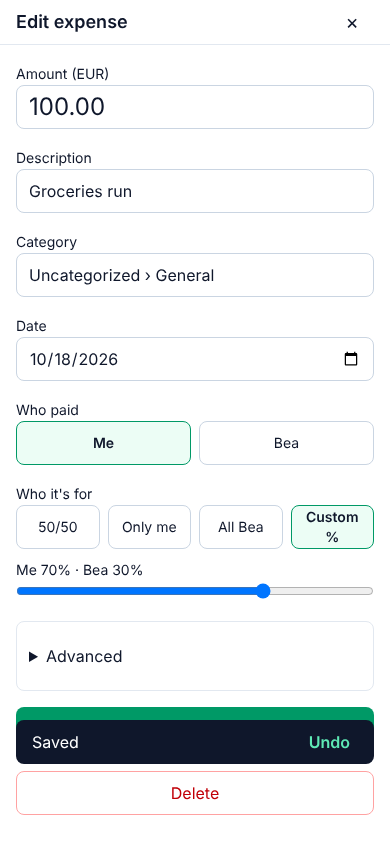
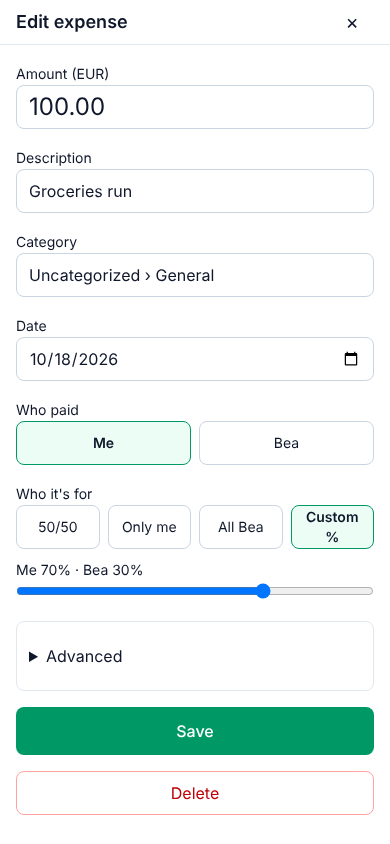
012: custom-split amount change, 3-member defaults, toast hidden when a sheet opens

Changed region(s): [[0.0308, 0.8318, 0.9846, 0.9242]]

diff --git a/frontend/src/expenses.test.tsx b/frontend/src/expenses.test.tsx
@@ -81,14 +81,14 @@ function baseRoutes(rows: ExpenseRow[] = [], extra: Parameters<typeof mockApi>[0
   };
 }
 
-function renderPage(page: "expenses" | "settings" = "expenses") {
+function renderPage(page: "expenses" | "settings" = "expenses", g: GroupDetail = group) {
   document.cookie = "csrftoken=tok";
   const client = new QueryClient({ defaultOptions: { queries: { retry: false } } });
   return render(
     <QueryClientProvider client={client}>
       <MemoryRouter initialEntries={["/g/1/" + page]}>
         <Routes>
-          <Route path="/g/1" element={<Outlet context={group} />}>
+          <Route path="/g/1" element={<Outlet context={g} />}>
             <Route path="expenses" element={<Expenses />} />
             <Route path="settings" element={<Settings />} />
           </Route>
@@ -306,4 +306,77 @@ test("test_same_currency_row_has_no_original_amount_text_but_foreign_row_has", a
   const abroad = screen.getByText("Abroad").closest("li")!;
   expect(local).not.toHaveTextContent("EUR");
   expect(abroad).toHaveTextContent("100.00 USD");
+});
+
+const threeMembers = {
+  ...group,
+  members: [...group.members, { id: 3, display_name: "Cy", profile_id: 3, is_guest: false }],
+} as unknown as GroupDetail;
+
+test("test_custom_split_row_amount_change_keeps_save_disabled_until_advanced_sums", async () => {
+  const custom = row({ splits: [{ member: 1, owed_cents: 2000 }, { member: 2, owed_cents: 2210 }] });
+  const calls = mockApi(baseRoutes([custom], { "PATCH /groups/1/expenses/5/": () => ({ json: custom }) }));
+  renderPage();
+  fireEvent.click(await screen.findByText("Rent"));
+  const dialog = within(await screen.findByRole("dialog", { name: "Edit expense" }));
+  expect(dialog.getByText("Custom split — edit in Advanced")).toBeInTheDocument();
+  fireEvent.change(dialog.getByLabelText(/Amount/), { target: { value: "40" } });
+  expect(dialog.getByRole("button", { name: "Save" })).toBeDisabled();
+  fireEvent.change(dialog.getByLabelText("Exact Bea"), { target: { value: "20" } });
+  expect(dialog.getByRole("button", { name: "Save" })).toBeEnabled();
+  fireEvent.click(dialog.getByRole("button", { name: "Save" }));
+  await waitFor(() => expect(calls.some((c) => c.method === "PATCH")).toBe(true));
+  const body = calls.find((c) => c.method === "PATCH")!.body as { amount_cents: number; preset: string; params: { cents: Record<string, number> } };
+  expect(body.amount_cents).toBe(4000);
+  expect(body.preset).toBe("exact");
+  expect(Object.values(body.params.cents).reduce((a, b) => a + b, 0)).toBe(4000);
+});
+
+test.each([
+  ["percentage", { preset: "percentage", params: { basis_points: { "1": 7000, "2": 3000 } } }],
+  ["full_for_other", { preset: "full_for_other", params: {} }],
+])("test_three_member_group_falls_back_to_equal_for_%s_default", async (_name, stored) => {
+  const calls = mockApi(
+    baseRoutes([], {
+      "GET /groups/1/category-defaults/": () => ({ json: { "21": stored } }),
+      "POST /groups/1/expenses/": () => ({ status: 201, json: row({ id: 77 }) }),
+    }),
+  );
+  renderPage("expenses", threeMembers);
+  const dialog = within(await openAdd());
+  expect(dialog.getByRole("combobox", { name: "Who paid" })).toBeInTheDocument();
+  expect(dialog.getByRole("button", { name: "Equal among everyone" })).toHaveAttribute("aria-pressed", "true");
+  expect(dialog.queryByRole("button", { name: "Custom %" })).toBeNull();
+  fireEvent.change(dialog.getByLabelText(/Amount/), { target: { value: "30" } });
+  fireEvent.change(dialog.getByLabelText("Description"), { target: { value: "Dinner" } });
+  fireEvent.click(dialog.getByRole("button", { name: "Save" }));
+  await waitFor(() => expect(calls.some((c) => c.method === "POST")).toBe(true));
+  expect(calls.find((c) => c.method === "POST")!.body).toMatchObject({ preset: "equal", amount_cents: 3000 });
+});
+
+test("test_settings_in_three_member_group_keeps_percentage_default_as_other_and_offers_no_custom", async () => {
+  const stored = { preset: "percentage", params: { basis_points: { "1": 7000, "2": 3000 } } };
+  mockApi({
+    "GET /categories/": () => ({ json: tree }),
+    "GET /groups/1/category-defaults/": () => ({ json: { "12": stored } }),
+  });
+  renderPage("settings", threeMembers);
+  const select = (await screen.findByLabelText("Default split for Food and drink › Groceries")) as HTMLSelectElement;
+  expect(select.value).toBe("kept");
+  expect(within(select).queryByRole("option", { name: "Custom %" })).toBeNull();
+  expect(within(select).queryByRole("option", { name: "All the other" })).toBeNull();
+  expect(within(select).getByRole("option", { name: "Other (kept)" })).toBeInTheDocument();
+});
+
+test("test_toast_is_dismissed_when_a_sheet_opens", async () => {
+  mockApi(baseRoutes([row()], { "POST /groups/1/expenses/": () => ({ status: 201, json: row({ id: 77 }) }) }));
+  renderPage();
+  const dialog = within(await openAdd());
+  fireEvent.change(dialog.getByLabelText(/Amount/), { target: { value: "5" } });
+  fireEvent.change(dialog.getByLabelText("Description"), { target: { value: "Tea" } });
+  fireEvent.click(dialog.getByRole("button", { name: "Save" }));
+  await screen.findByRole("button", { name: "Undo" });
+  fireEvent.click(await screen.findByText("Rent"));
+  await screen.findByRole("dialog", { name: "Edit expense" });
+  expect(screen.queryByRole("button", { name: "Undo" })).toBeNull();
 });

diff --git a/frontend/src/pages/DefaultSplits.tsx b/frontend/src/pages/DefaultSplits.tsx
@@ -58,9 +58,11 @@ export default function DefaultSplits({ group }: { group: GroupDetail }) {
           <h3 className="text-sm font-semibold text-slate-600">{parent.name}</h3>
           {parent.children.map((k) => {
             const current = defaults.data[String(k.id)];
-            const choice = choiceOf(current);
-            const percent = storedPercent(current?.params, me) ?? 50;
             const twoOnly = group.members.length !== 2;
+            // The sheet cannot honour these outside a 2-member group; keep them untouched instead of hiding them.
+            const stored = choiceOf(current);
+            const choice = twoOnly && (stored === "custom" || stored === "all_other") ? "kept" : stored;
+            const percent = storedPercent(current?.params, me) ?? 50;
             return (
               <div key={k.id} className="flex flex-wrap items-center gap-2 py-1" data-testid={`default-${k.id}`}>
                 <span className="min-w-0 flex-1 break-words">{k.name}</span>

diff --git a/frontend/src/pages/Expenses.tsx b/frontend/src/pages/Expenses.tsx
@@ -139,6 +139,7 @@ export default function Expenses() {
 
   const open = (row: ExpenseRow) => {
     setEditError(null);
+    setToast(null); // the toast would sit on top of the sheet's Save button
     setSheet({ kind: "edit", row });
   };
 
@@ -210,7 +211,10 @@ export default function Expenses() {
           aria-label="Add expense"
           className="pointer-events-auto flex size-14 items-center justify-center rounded-full bg-emerald-600 text-3xl text-white shadow-lg"
           disabled={!tree.data || !defaults.data}
-          onClick={() => setSheet({ kind: "add" })}
+          onClick={() => {
+            setToast(null);
+            setSheet({ kind: "add" });
+          }}
         >
           +
         </button>
